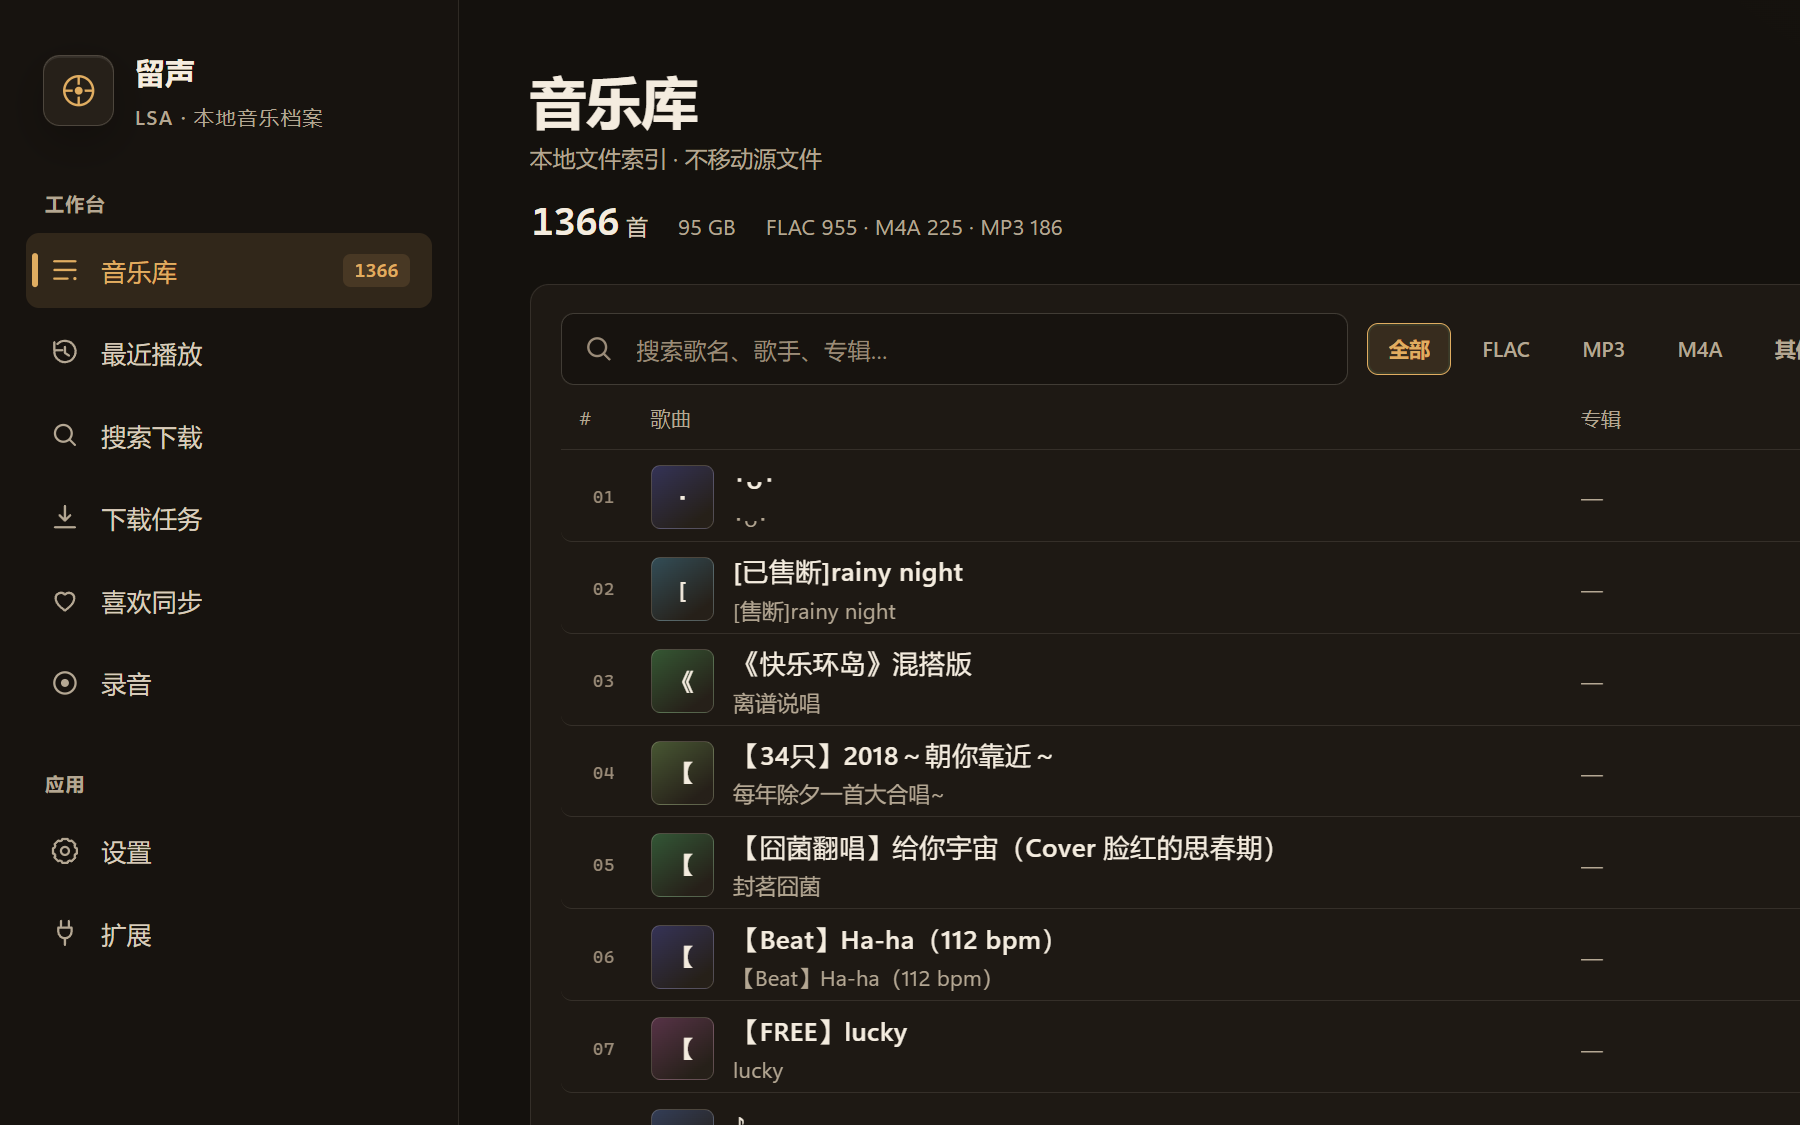
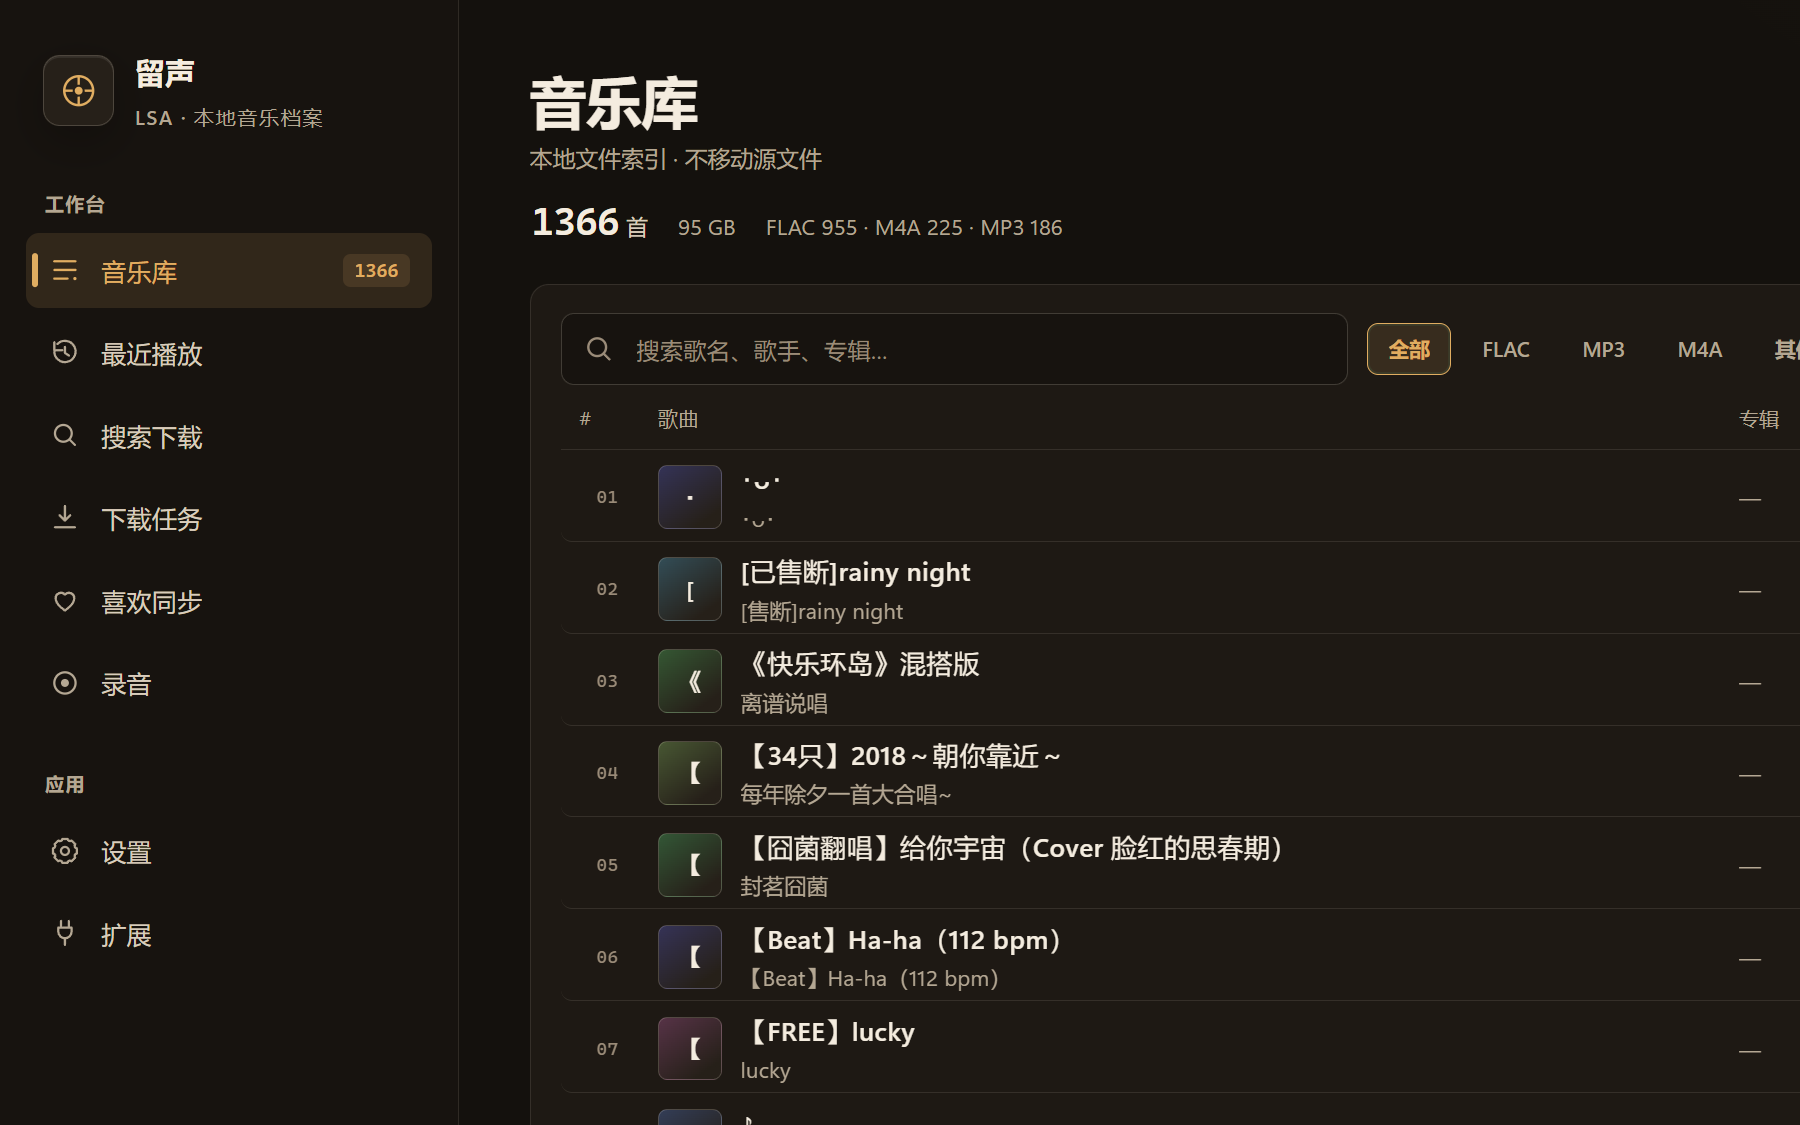
build: electron mac/win artifacts

diff --git a/ui/app.js b/ui/app.js
@@ -608,10 +608,14 @@ function updateStats() {
 }
 function updateRowPlayIcons() {
   $$('#libList .row').forEach((row) => {
-    const isPlaying = state.playing && state.playing.url === row.dataset.url && state.isPlaying;
+    const current = !!(state.playing && state.playing.url === row.dataset.url);
+    const audible = current && state.isPlaying;
     const use = row.querySelector('.row-play use');
-    if (use) use.setAttribute('href', isPlaying ? '#i-pause' : '#i-play');
-    row.classList.toggle('playing', !!(state.playing && state.playing.url === row.dataset.url));
+    if (use) use.setAttribute('href', '#i-play');
+    row.classList.toggle('playing', current);
+    row.classList.toggle('is-audible', audible);
+    const button = row.querySelector('.row-play');
+    if (button) button.setAttribute('aria-label', '播放 ' + (row.querySelector('.cell-title')?.textContent || ''));
   });
 }
 function renderLibrary() {
@@ -631,13 +635,12 @@ function renderLibrary() {
       const playing = currentUrl === t.url;
       const selected = state.selectedTrack === t.url;
       const dur = t.duration ? formatTime(t.duration) : '';
-      return '<div class="row lib-grid' + (playing ? ' playing' : '') + (selected ? ' selected' : '') + '" data-url="' + esc(t.url) + '" tabindex="0" role="option" aria-selected="' + (selected ? 'true' : 'false') + '" aria-label="' + esc(t.title + '，' + t.artist) + '">' +
-        '<span class="idx">' + String(i + 1).padStart(2, '0') + '</span>' +
+      return '<div class="row lib-grid' + (playing ? ' playing' : '') + (playing && state.isPlaying ? ' is-audible' : '') + (selected ? ' selected' : '') + '" data-url="' + esc(t.url) + '" tabindex="0" role="option" aria-selected="' + (selected ? 'true' : 'false') + '" aria-label="' + esc(t.title + '，' + t.artist) + '">' +
+        '<div class="row-leading"><span class="idx">' + String(i + 1).padStart(2, '0') + '</span><button class="row-play" tabindex="-1" data-play="' + esc(t.url) + '" aria-label="播放 ' + esc(t.title) + '">' + icon('play') + '</button><span class="row-eq" aria-hidden="true"><i></i><i></i><i></i></span></div>' +
         '<div class="cover-cell">' + artMarkup(t.title, t.artist) + '<div class="cell"><div class="cell-title" title="' + esc(t.title) + '">' + esc(t.title) + '</div><div class="cell-sub" title="' + esc(t.artist) + '">' + esc(t.artist) + '</div></div></div>' +
         '<div class="cell cell-muted col-album" title="' + esc(t.album || '—') + '">' + esc(t.album || '—') + '</div>' +
         '<div><span class="badge' + (t.ext === 'flac' ? ' accent' : '') + '">' + esc(t.ext.toUpperCase()) + '</span></div>' +
         '<div class="cell-muted">' + formatSize(t.size) + (dur ? ' <span class="cell-sub">' + dur + '</span>' : '') + '</div>' +
-        '<button class="row-play" tabindex="-1" data-play="' + esc(t.url) + '" aria-label="' + (playing && state.isPlaying ? '暂停' : '播放') + ' ' + esc(t.title) + '">' + icon(playing && state.isPlaying ? 'pause' : 'play') + '</button>' +
         '</div>';
     }).join('');
   }

diff --git a/ui/app.css b/ui/app.css
@@ -2629,3 +2629,26 @@ select.native-select {
 }
 .custom-select-option:hover, .custom-select-option.selected { background: var(--ui-hover, rgba(255,255,255,.065)); color: var(--ui-text, var(--ink)); }
 .custom-select-option.selected::after { content: '✓'; margin-left: auto; color: var(--ui-accent, var(--accent)); font-size: 11px; }
+
+/* Library row: play/control lives in the leading slot, not at the far right. */
+.lib-grid { grid-template-columns: 34px minmax(220px, 2.3fr) minmax(120px, 1.2fr) 64px 72px; }
+.row-leading { position: relative; width: 34px; height: 34px; display: grid; place-items: center; }
+.row-leading .idx { position: absolute; inset: 0; display: grid; place-items: center; transition: opacity .14s ease; }
+.row-leading .row-play {
+  position: absolute; inset: 2px; width: 30px; height: 30px;
+  opacity: 0; pointer-events: none; transform: scale(.92);
+  transition: opacity .14s ease, transform .14s ease, color .14s ease, background .14s ease;
+}
+.row:hover .row-leading .idx,
+.row:focus-visible .row-leading .idx,
+.row.playing .row-leading .idx { opacity: 0; }
+.row:hover .row-leading .row-play,
+.row:focus-visible .row-leading .row-play { opacity: 1; pointer-events: auto; transform: none; }
+.row.playing.is-audible .row-leading .row-play { display: none; }
+.row-eq { position: absolute; inset: 0; display: flex; align-items: center; justify-content: center; gap: 2px; opacity: 0; color: var(--ui-accent, var(--accent)); transition: opacity .14s ease; }
+.row-eq i { width: 2px; height: 5px; border-radius: 2px; background: currentColor; animation: rowEq .9s ease-in-out infinite alternate; }
+.row-eq i:nth-child(2) { height: 11px; animation-delay: .15s; }
+.row-eq i:nth-child(3) { height: 7px; animation-delay: .3s; }
+.row.playing.is-audible .row-eq { opacity: 1; }
+@keyframes rowEq { from { transform: scaleY(.55); opacity: .55; } to { transform: scaleY(1); opacity: 1; } }
+@media (prefers-reduced-motion: reduce) { .row-eq i { animation: none; } }

diff --git a/ui/index.html b/ui/index.html
@@ -4,7 +4,7 @@
 <meta charset="utf-8">
 <meta name="viewport" content="width=device-width, initial-scale=1">
 <title>留声 · LSA</title>
-<link rel="stylesheet" href="app.css?v=20261031-34">
+<link rel="stylesheet" href="app.css?v=20261031-35">
 </head>
 <body class="booting">
 <div class="window-chrome" aria-hidden="false">
@@ -116,7 +116,7 @@
           <label class="sort-field"><span>排序</span><select id="libSort"><option value="time">最近添加</option><option value="artist">歌手</option><option value="title">歌名</option><option value="size">大小</option><option value="format">格式</option></select></label>
         </div>
         <div class="table-head lib-grid" aria-hidden="true">
-          <span class="col-index">#</span><span>歌曲</span><span class="col-album">专辑</span><span class="col-format">格式</span><span class="col-size">大小</span><span></span>
+          <span class="col-index">#</span><span>歌曲</span><span class="col-album">专辑</span><span class="col-format">格式</span><span class="col-size">大小</span>
         </div>
         <div id="libSkeleton" class="table-skeleton" aria-hidden="true"></div>
         <div id="libList" class="lib-list" role="listbox" aria-label="本地歌曲" tabindex="-1"></div>
@@ -547,10 +547,11 @@
 </div>
 <script src="i18n.js?v=20261031-16"></script>
 <script src="shell.js?v=8"></script>
-<script src="app.js?v=20261031-27"></script>
+<script src="app.js?v=20261031-28"></script>
 <script src="custom-select.js?v=1"></script>
 </body>
 </html>
+
 
 
 
